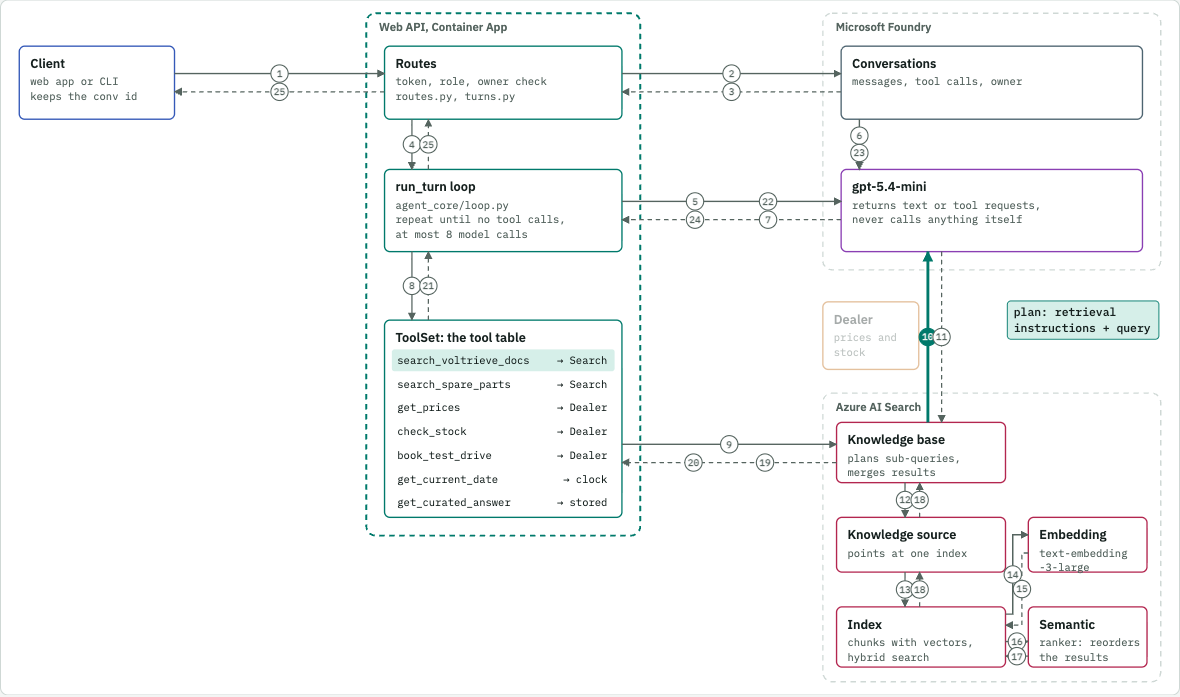
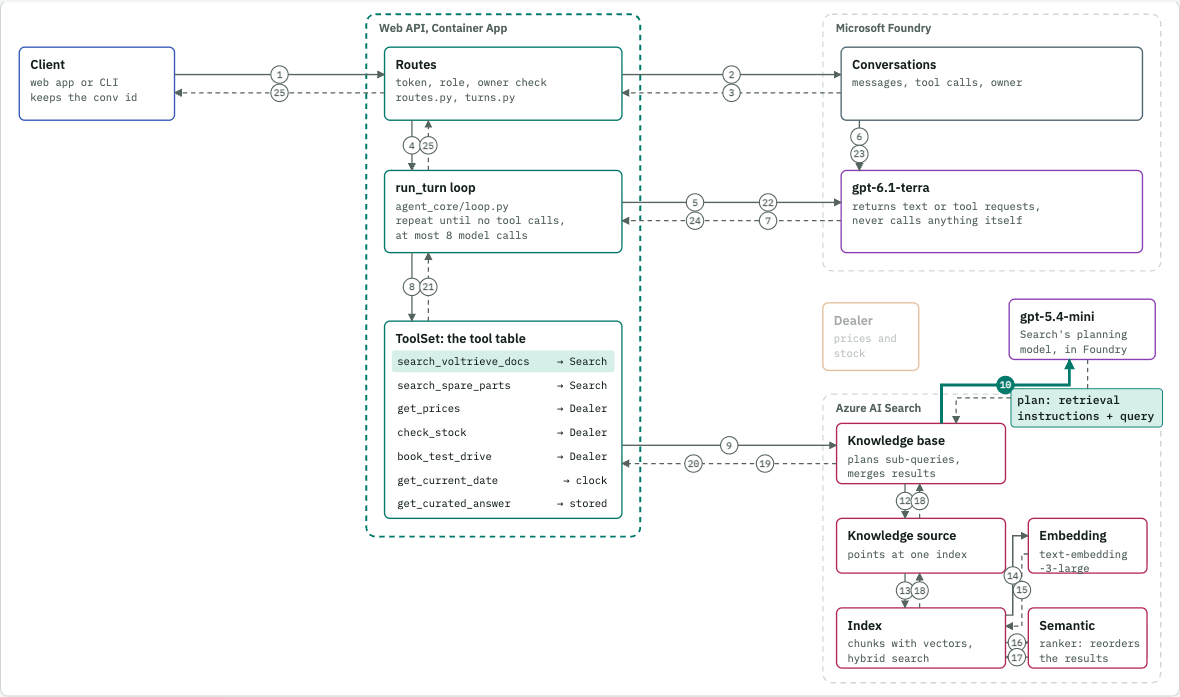
Show Search planning on its own model box on the map

diff --git a/docs/assets/prompt-journey.html b/docs/assets/prompt-journey.html
@@ -1014,10 +1014,10 @@ const E={
  d_t:{p:[[900,380],[680,380]],a:[790,394],m:"middle",v:"down",ret:1},
  t_p:{p:[[680,486],[915,486]],a:[797,472],m:"middle",v:"up"},
  p_t:{p:[[915,506],[680,506]],a:[797,520],m:"middle",v:"down",ret:1},
- p_m:{p:[[1015,462],[1015,275]],a:[1102,350],m:"start",v:"mid"},
- m_p:{p:[[1030,275],[1030,462]],a:[1102,350],m:"start",v:"mid",ret:1},
- m_k:{p:[[1070,275],[1070,462]],a:[1102,350],m:"start",v:"mid"},
- k_m:{p:[[1086,462],[1086,275]],a:[1102,350],m:"start",v:"mid",ret:1},
+ p_m:{p:[[1030,462],[1030,420],[1170,420],[1170,392]],a:[1106,445],m:"start",v:"mid"},
+ m_p:{p:[[1190,392],[1190,434],[1046,434],[1046,462]],a:[1106,445],m:"start",v:"mid",ret:1},
+ m_k:{p:[[1070,275],[1070,462]],a:[1102,308],m:"start",v:"mid"},
+ k_m:{p:[[1086,462],[1086,275]],a:[1102,308],m:"start",v:"mid",ret:1},
  kb_ks:{p:[[990,528],[990,566]],a:[1022,547],m:"start",v:"mid"},
  ks_kb:{p:[[1006,566],[1006,528]],a:[1022,547],m:"start",v:"mid",ret:1},
  ks_ix:{p:[[990,626],[990,664]],a:[1022,645],m:"start",v:"mid"},
@@ -1298,7 +1298,7 @@ function applyBackend(){
  zHost.r.style.display=zHost.t.style.display=hosted?"":"none";
  setRoutes("Routes",hosted?["token, role, owner check,","conversations"]:["token, role, owner check","routes.py, turns.py"]);
  setLoop(prompt?"Loop, function tools only":"run_turn loop",hosted?["the same code as the own loop,","in Foundry's container","repeat until no tool calls"]:prompt?["sends only the agent's name,","runs dealer and curated tools","searches happen in Foundry"]:["agent_core/loop.py","repeat until no tool calls,","at most 8 model calls"]);
- setModel(prompt?"Prompt agent + gpt-5.4-mini":hosted?"gpt-5.4-mini":"gpt-6.1-terra",prompt?["holds instructions and tools, and","runs the searches through MCP"]:["returns text or tool requests, never","calls anything. Search plans on gpt-5.4-mini"]);
+ setModel(prompt?"Prompt agent + gpt-5.4-mini":hosted?"gpt-5.4-mini":"gpt-6.1-terra",prompt?["holds instructions and tools, and","runs the searches through MCP"]:["returns text or tool requests,","never calls anything itself"]);
  rowTo.search_voltrieve_docs.textContent=rowTo.search_spare_parts.textContent=prompt?"→ Foundry":"→ Search";
 }
 const VERDICT={
@@ -1345,8 +1345,9 @@ const toolG=group("tools");box(toolG,420,350,260,216,"var(--api)","ToolSet: the 
 const ROWS=[["search_voltrieve_docs","Search"],["search_spare_parts","Search"],["get_prices","Dealer"],["check_stock","Dealer"],["book_test_drive","Dealer"],["get_current_date","clock"],["get_curated_answer","stored"]];
 const rowBg={},rowTo={};ROWS.forEach(([n,w],i)=>{const y=382+i*26;const g=el("g");const r=el("rect",{class:"row-bg",x:428,y,width:244,height:24,rx:3});rowBg[n]=r;const to=el("text",{class:"row-t",x:664,y:y+16,"text-anchor":"end"},"→ "+w);rowTo[n]=to;g.append(r,el("text",{class:"row-t",x:434,y:y+16},n),to);toolG.append(g)});
 box(group("conv"),920,50,330,80,"var(--store)","Conversations",["messages, tool calls, owner"]);
-const setModel=box(group("model"),920,185,330,90,"var(--llm)","gpt-6.1-terra",["returns text or tool requests, never","calls anything. Search plans on gpt-5.4-mini"]);
+const setModel=box(group("model"),920,185,330,90,"var(--llm)","gpt-6.1-terra",["returns text or tool requests,","never calls anything itself"]);
 box(group("dealer"),900,330,105,74,"var(--dealer)","Dealer",["prices and","stock"]);
+box(group("planmodel"),1104,326,160,66,"var(--llm)","gpt-5.4-mini",["Search's planning","model, in Foundry"]);
 const setKb=box(group("kb"),915,462,185,66,"var(--search)","Knowledge base",["plans sub-queries,","merges results"]);
 box(group("ks"),915,566,185,60,"var(--search)","Knowledge source",["points at one index"]);
 box(group("ix"),915,664,185,66,"var(--search)","Index",["chunks with vectors,","hybrid search"]);
@@ -1354,7 +1355,7 @@ box(group("em"),1125,566,130,60,"var(--search)","Embedding",["text-embedding","-
 box(group("rk"),1125,664,130,66,"var(--search)","Semantic",["ranker: reorders","the results"]);
 const edgeG=map.appendChild(el("g")),badgeG=map.appendChild(el("g")),chipG=map.appendChild(el("g"));
 const edges={};Object.entries(E).forEach(([id,e])=>{const l=el("polyline",{class:"edge"+(e.ret?" ret":""),points:e.p.join(" ")});edges[id]=l;edgeG.append(l)});
-const USES={c_r:["client","routes"],r_c:["client","routes"],r_v:["routes","conv"],v_r:["routes","conv"],r_l:["routes","loop"],l_r:["routes","loop"],l_m:["loop","model"],m_l:["loop","model"],v_m:["conv","model"],l_t:["loop","tools"],t_l:["loop","tools"],t_d:["tools","dealer"],d_t:["tools","dealer"],t_p:["tools","kb"],p_t:["tools","kb"],p_m:["kb","model"],m_p:["kb","model"],m_k:["kb","model"],k_m:["kb","model"],kb_ks:["kb","ks"],ks_kb:["kb","ks"],ks_ix:["ks","ix"],ix_ks:["ks","ix"],ix_em:["ix","em"],em_ix:["ix","em"],ix_r:["ix","rk"],r_ix:["ix","rk"],c_c:["client"],m_m:["model"],l_v:["loop","conv"]};
+const USES={c_r:["client","routes"],r_c:["client","routes"],r_v:["routes","conv"],v_r:["routes","conv"],r_l:["routes","loop"],l_r:["routes","loop"],l_m:["loop","model"],m_l:["loop","model"],v_m:["conv","model"],l_t:["loop","tools"],t_l:["loop","tools"],t_d:["tools","dealer"],d_t:["tools","dealer"],t_p:["tools","kb"],p_t:["tools","kb"],p_m:["kb","planmodel"],m_p:["kb","planmodel"],m_k:["kb","model"],k_m:["kb","model"],kb_ks:["kb","ks"],ks_kb:["kb","ks"],ks_ix:["ks","ix"],ix_ks:["ks","ix"],ix_em:["ix","em"],em_ix:["ix","em"],ix_r:["ix","rk"],r_ix:["ix","rk"],c_c:["client"],m_m:["model"],l_v:["loop","conv"]};
 
 let scen="yours",cur=0,badges=[];
 const tabs=document.getElementById("tabs"),bar=document.getElementById("stepbar"),card=document.getElementById("card");
